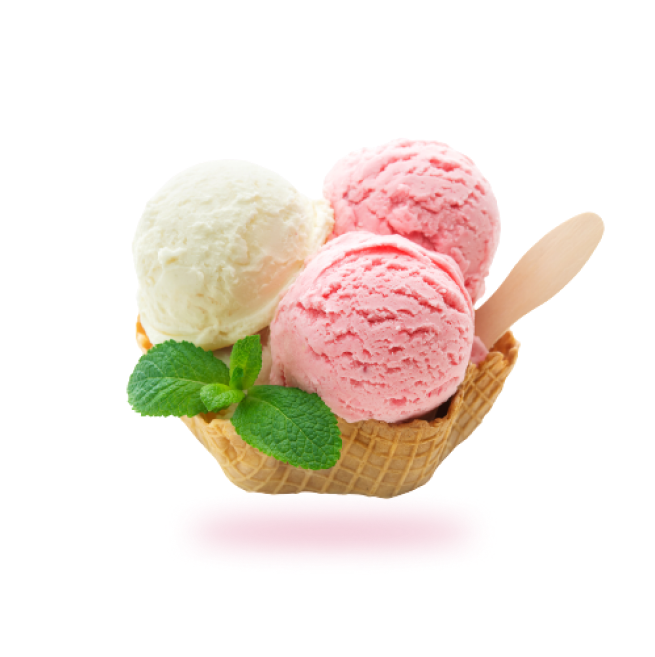
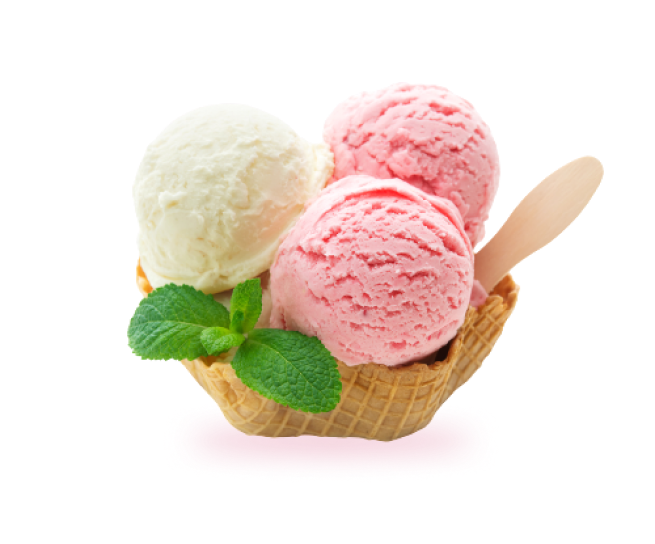
Исправление ошибок

Changed region(s): [[0.1832, 0.1562, 0.9466, 0.8125], [0.7939, 0.4375, 0.855, 0.5], [0.855, 0.4062, 0.8855, 0.4375]]

diff --git a/src/partials/details.html b/src/partials/details.html
@@ -1,4 +1,4 @@
-<section class="section section--pink">
+<section class="section section--no-padding section--pink">
   <div class="container">
     <div class="details">
       <div class="details__meta">

diff --git a/src/sass/components/_section.scss b/src/sass/components/_section.scss
@@ -3,6 +3,11 @@
   padding-bottom: 130px;
 }
 
+.section--no-padding {
+  padding-top: 0;
+  padding-bottom: 0;
+}
+
 .section--pink {
   background-color: var(--background-roze-color);
 }

diff --git a/src/sass/layout/_details.scss b/src/sass/layout/_details.scss
@@ -1,6 +1,8 @@
 .details {
   display: flex;
+  align-items: center;
 }
+
 .details__meta {
   width: 442px;
 
